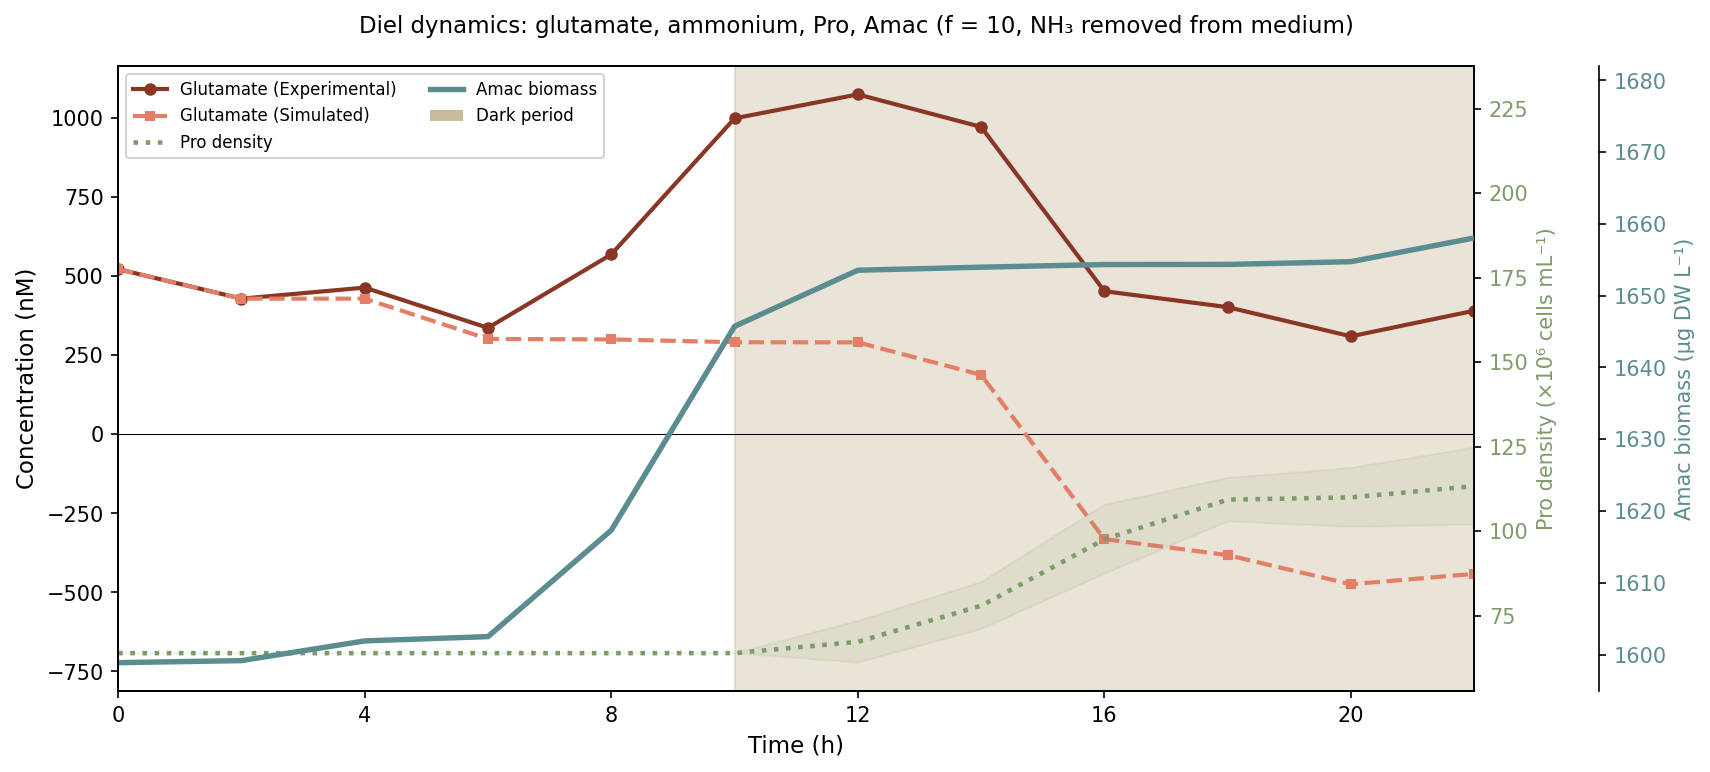
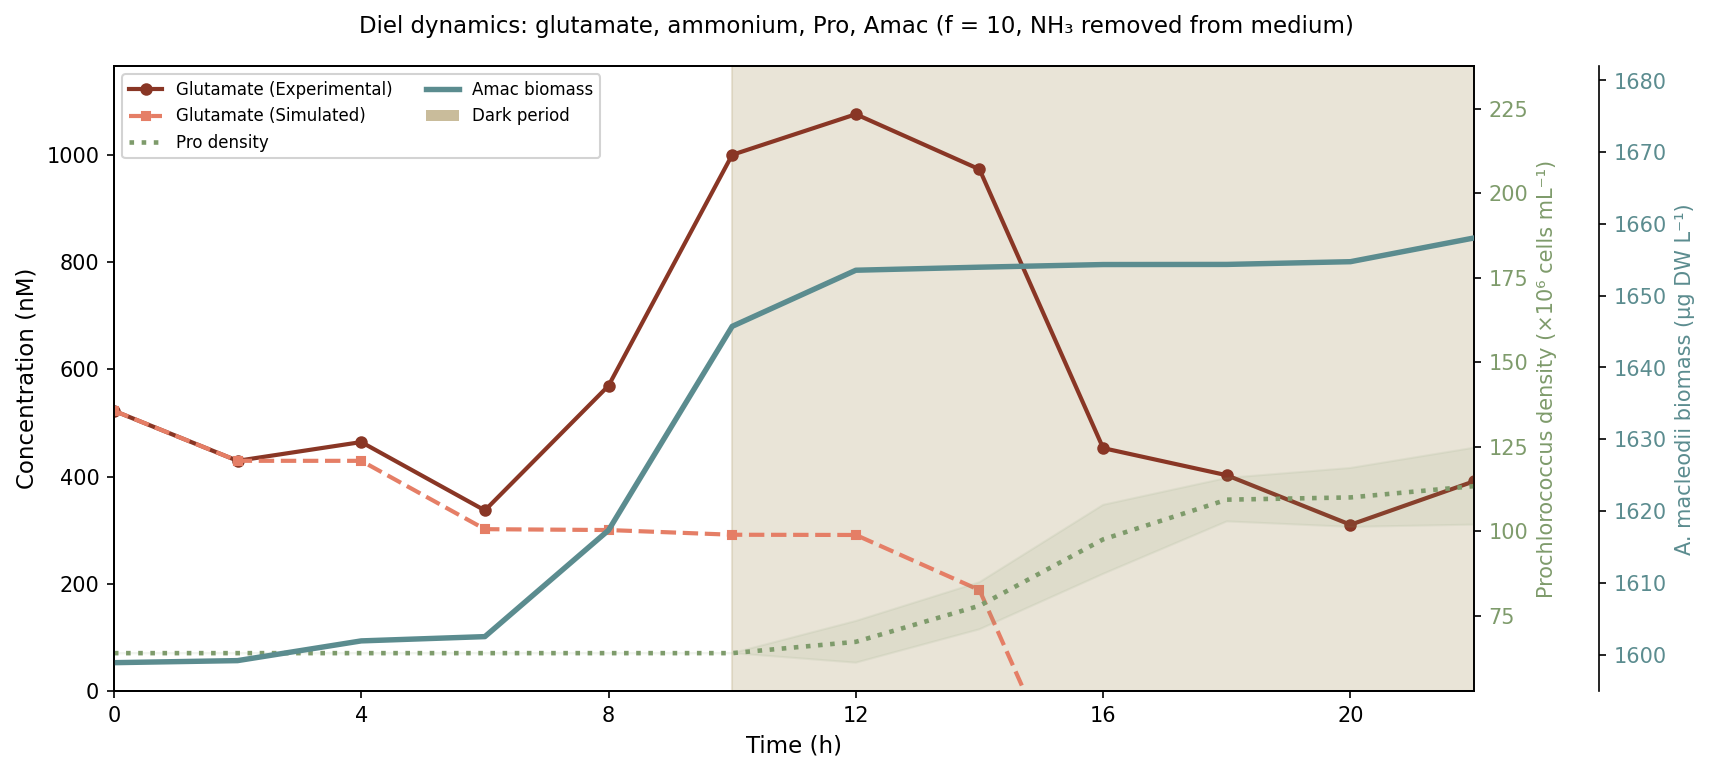
fix: format axis limits and labels

diff --git a/simulations/pro_exometabolites/plot_integrated_dynamics.py b/simulations/pro_exometabolites/plot_integrated_dynamics.py
@@ -200,11 +200,14 @@ def main() -> None:
         zorder=4,
     )
 
-    # Subset the x-axis (time) to the first diel cycle
     ax1.set_xlabel("Time (h)", fontsize=11)
     ax1.set_ylabel("Concentration (nM)", fontsize=11)
+    # Subset the x-axis (time) to the first diel cycle
     ax1.set_xlim(0, 22)
     ax1.set_xticks(range(0, 23, 4))
+    # Subset the y-axis to only show positive concentrations
+    # The simulated glutamate can go negative when Pro starts reabsorbing it
+    ax1.set_ylim(bottom=0)
 
     # Pro density (right inner)
     ax2.plot(
@@ -223,12 +226,14 @@ def main() -> None:
             color=c_pro,
             alpha=0.10,
         )
-    ax2.set_ylabel("Pro density (×10⁶ cells mL⁻¹)", color=c_pro, fontsize=10)
+    ax2.set_ylabel(
+        "Prochlorococcus density (×10⁶ cells mL⁻¹)", color=c_pro, fontsize=10
+    )
     ax2.tick_params(axis="y", labelcolor=c_pro)
 
     # Amac biomass (right outer)
     ax3.plot(times, X_ugL, "-", color=c_amac, lw=2.6, label="Amac biomass")
-    ax3.set_ylabel("Amac biomass (μg DW L⁻¹)", color=c_amac, fontsize=10)
+    ax3.set_ylabel("A. macleodii biomass (μg DW L⁻¹)", color=c_amac, fontsize=10)
     ax3.tick_params(axis="y", labelcolor=c_amac)
 
     # Combined legend
